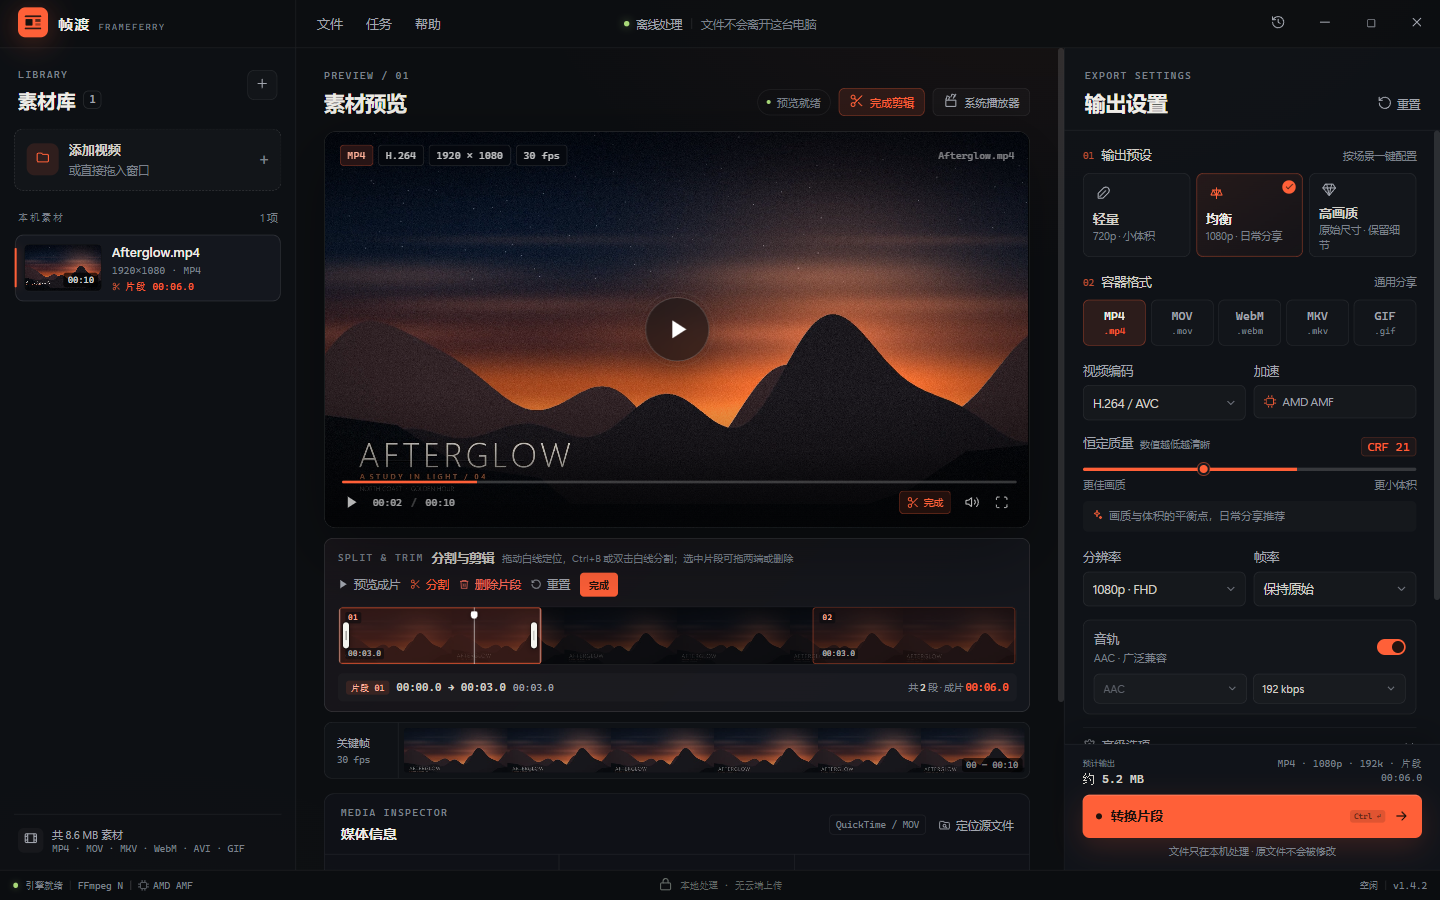
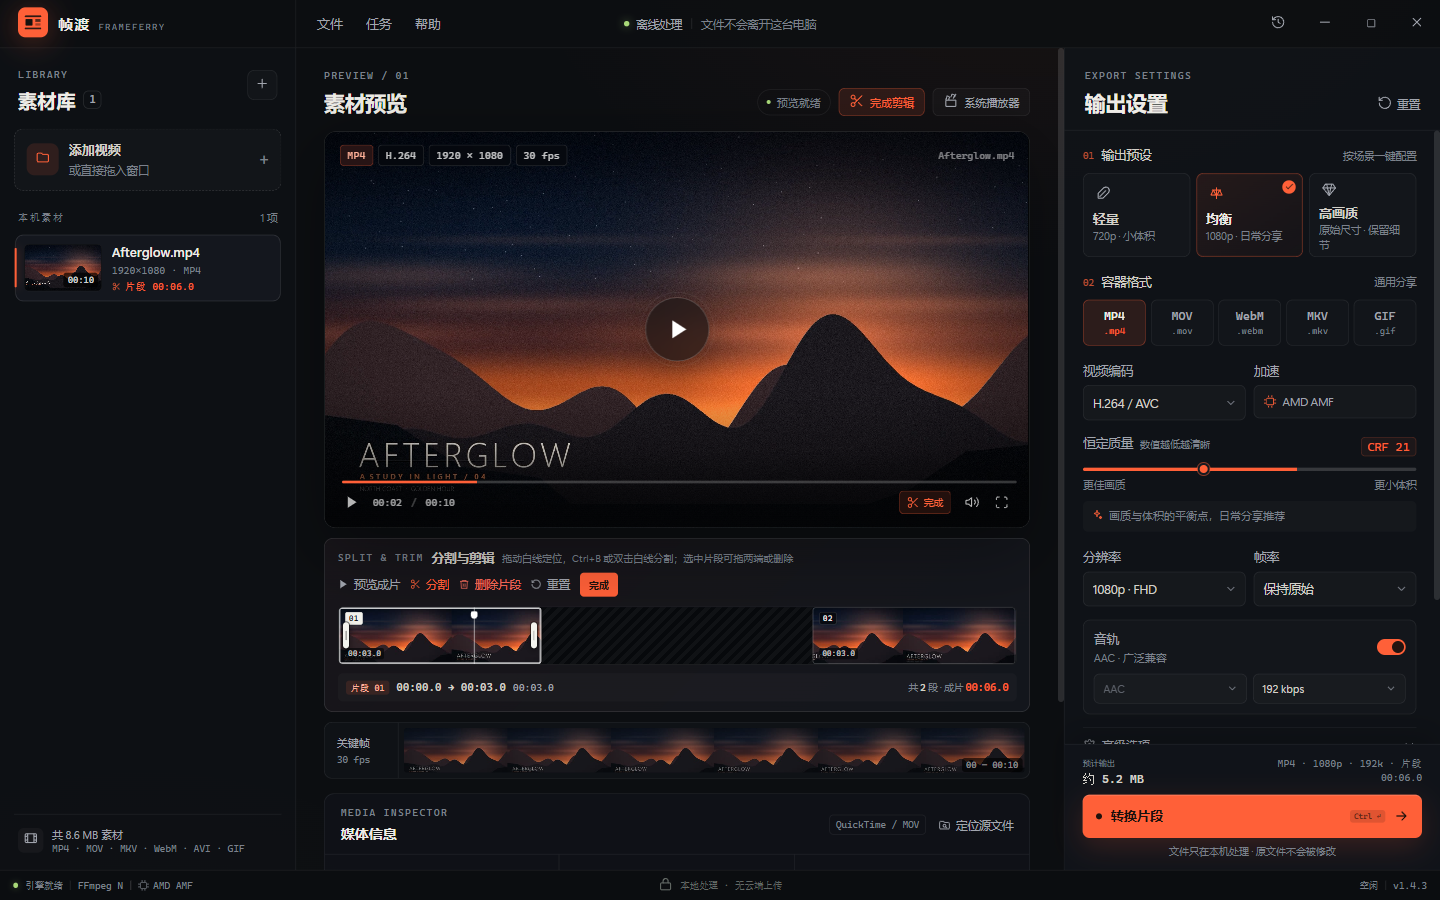
fix: 选中片段不再用黄色蒙层遮挡画面
选中态改为白色描边与白色手柄，联系表恢复原亮度；删除区间使用深色斜纹遮罩。版本提升到 v1.4.3，更新截图与说明。

Changed region(s): [[0.2188, 0.6533, 0.4688, 0.7467], [0.5, 0.6844, 0.7188, 0.7467]]

diff --git a/renderer/styles.css b/renderer/styles.css
@@ -4162,3 +4162,68 @@ input:focus-visible {
 .clip-trim-tip[hidden] {
   display: none;
 }
+
+/* ---------- Outline-only selection: keep footage readable ---------- */
+
+.clip-timeline .trim-film {
+  opacity: 0.97;
+  filter: saturate(1.04) brightness(1.06);
+}
+
+.clip-gap {
+  position: absolute;
+  z-index: 1;
+  top: 0;
+  bottom: 0;
+  background:
+    repeating-linear-gradient(
+      -45deg,
+      rgba(255, 255, 255, 0.035) 0,
+      rgba(255, 255, 255, 0.035) 4px,
+      transparent 4px,
+      transparent 8px
+    ),
+    #07090c;
+  pointer-events: none;
+}
+
+.clip-block {
+  border: 1px solid rgba(255, 255, 255, 0.28);
+  background: transparent;
+  transition: background 0.14s, border-color 0.14s, box-shadow 0.14s;
+}
+
+.clip-block:hover {
+  border-color: rgba(255, 255, 255, 0.62);
+  background: rgba(255, 255, 255, 0.025);
+}
+
+.clip-block.is-selected {
+  border-color: #fff;
+  background: transparent;
+  box-shadow:
+    0 0 0 1px rgba(0, 0, 0, 0.68),
+    inset 0 0 0 1px rgba(255, 255, 255, 0.78);
+}
+
+.clip-block-index {
+  border: 1px solid rgba(255, 255, 255, 0.12);
+  background: rgba(5, 7, 9, 0.74);
+  color: rgba(255, 255, 255, 0.92);
+}
+
+.clip-block-duration {
+  background: rgba(5, 7, 9, 0.7);
+  color: rgba(255, 255, 255, 0.74);
+}
+
+.clip-block.is-selected .clip-block-index {
+  background: #f1f1eb;
+  color: #121212;
+  border-color: #f1f1eb;
+}
+
+.clip-block.is-selected::before,
+.clip-block.is-selected::after {
+  background: rgba(255, 255, 255, 0.55);
+}

diff --git a/renderer/app.js b/renderer/app.js
@@ -628,6 +628,19 @@ function renderTrimUI() {
       return `<span class="clip-cut-line" style="left:${pct(clip.start)}%"></span>`
     })
     .join('')
+  const gaps = []
+  let gapCursor = 0
+  for (const clip of clips) {
+    if (clip.start > gapCursor + 0.01) gaps.push({ start: gapCursor, end: clip.start })
+    gapCursor = Math.max(gapCursor, clip.end)
+  }
+  if (gapCursor < duration - 0.01) gaps.push({ start: gapCursor, end: duration })
+  const gapBlocks = gaps
+    .map((gap) => {
+      const left = pct(gap.start)
+      return `<span class="clip-gap" style="left:${left}%;width:${Math.max(0, pct(gap.end) - left)}%"></span>`
+    })
+    .join('')
 
   slot.innerHTML = `<div class="trim-panel clip-editor">
     <div class="trim-head">
@@ -646,7 +659,7 @@ function renderTrimUI() {
     </div>
     <div class="clip-timeline" id="clip-timeline">
       ${info.filmstrip ? `<img class="trim-film" src="${info.filmstrip}" alt="">` : '<div class="trim-film trim-film-empty"></div>'}
-      <div class="clip-dim"></div>
+      ${gapBlocks}
       ${blocks}
       ${cutLines}
       <div class="trim-playhead" id="trim-playhead">

diff --git a/README.md b/README.md
@@ -70,7 +70,7 @@ E:\FrameFerry\FrameFerry.exe
 
 ### 2. 分割与剪辑
 
-每个素材维护一组按时间排序的片段：初始为一条完整片段。时间轴上的白色竖线是播放头，同时也是分割位置：可以拖动白线，或点击时间轴定位，再按 `Ctrl+B`、双击白线或点「分割」。切点会留下一条白色分割线，相邻片段在视觉上连续。选中任意片段后，两端会出现白色圆角手柄；拖动时显示当前片段时长气泡，可以继续裁剪，或点「删除片段」移除。橙色块是保留片段，暗色区域是被删除的部分。
+每个素材维护一组按时间排序的片段：初始为一条完整片段。时间轴上的白色竖线是播放头，同时也是分割位置：可以拖动白线，或点击时间轴定位，再按 `Ctrl+B`、双击白线或点「分割」。切点会留下一条白色分割线，相邻片段在视觉上连续。选中任意片段后，两端会出现白色圆角手柄；拖动时显示当前片段时长气泡，可以继续裁剪，或点「删除片段」移除。选中状态只用白色描边和手柄标识，不再给画面加黄色半透明遮罩，缩略图保持原亮度；被删除的区域用深色斜纹填充。
 
 渲染层把片段数组交给主进程。单片段的导出走简洁的 `-ss / -t` 路径；多片段则用 FFmpeg `filter_complex`：
 
@@ -153,6 +153,7 @@ npm start -- --open-file="E:\path\to\video.mp4"
 - 默认保存文件夹的设置加载、自动落到该目录、重启持久化；
 - 白线分割：拖动白线定位，`Ctrl+B` / 双击白线 / 点「分割」均能在当前位置切开，切点显示白色分割线；
 - 白色片段手柄：选中片段两端显示白色圆角手柄，拖动时显示 `00:02.5` 时长气泡；
+- 不遮挡画面：选中片段用白色描边，删除区用深色斜纹，联系表保持原亮度；
 - 分割与剪辑：在 3s、7s 分割并删除中间片段，保留 `0–3s`、`7–10s`，输出 6.000s；
 - 片段再裁剪：把首段出点拖到 2.5s，输出精确 5.500s；任务进度与预计体积同步变化；
 - GIF 多片段：输出 75 帧，每帧 80ms，拼接后节奏保持稳定；

diff --git a/docs/TEST_REPORT.md b/docs/TEST_REPORT.md
@@ -94,7 +94,7 @@
 - 白线交互：拖动白线到 5.0s，`Ctrl+B` 分割成功；双击白线 8.0s 处再次分割，得到 `0–5s / 5–8s / 8–10s`，渲染出两条白色分割线
 - 操作：10s 素材打开「剪辑」，播放头在 3.0s 点「分割」，再在 7.0s 点「分割」，得到三段 `0–3s / 3–7s / 7–10s`
 - 选中中间片段（片段 02），点「删除片段」，保留 `0–3s` 与 `7–10s`
-- 界面：两段橙色块、中间暗色区；成片长度 `00:06.0`，预计体积约 5.2 MB
+- 界面：保留片段直接显示联系表，选中片段使用白色描边 + 白色手柄，删除区为深色斜纹；成片长度 `00:06.0`，预计体积约 5.2 MB
 - 输出：`split-test.mp4`，H.264 + AAC，1920×1080，ffprobe 时长 **6.000000s**
 - 再次编辑：选中片段 01，把末端白色圆角手柄从 3.0s 拖到 2.5s；拖动时气泡显示 `00:02.5`，成片变为 `5.5s`，输出 ffprobe 为 **5.500000s**
 - 构建参数：多片段使用 `trim/atrim + setpts/asetpts + concat` 的 `filter_complex`；单片段使用 `-ss/-t`
@@ -120,6 +120,7 @@
 | 片段预览 | 播放到出点 6.0s 自动暂停 |
 | 白线分割 | 拖动白线 + Ctrl+B / 双击白线，拆成三段并绘制两条白色分割线 |
 | 白色片段手柄 | 末端 3.0s 拖到 2.5s，手柄跟手，气泡显示 00:02.5 |
+| 无黄色遮挡 | 选中片段为白色描边，联系表保持原亮度；删除区显示深色斜纹 |
 | 分割与删除 MP4 | 在 3s、7s 分割后删除中间段，输出 6.000s，音画均保留 |
 | 分割片段再裁剪 | 把首段出点从 3.0s 拖到 2.5s，输出 5.500s |
 | 分割后 GIF | 保留 0–3s / 7–10s，输出 75 帧 / 6s / 全部 80ms |
